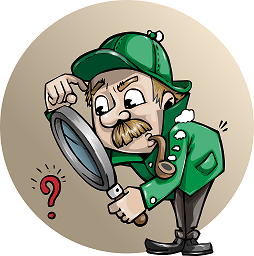
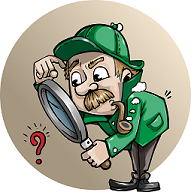
Ajuste de los elementos a una pantalla 940px, bajada de la resolución a las imágenes, ajuste para facilidad de responsividad

diff --git a/style.css b/style.css
@@ -7,19 +7,21 @@ body{
 }
 
 .caja{
-    display: block;
-    width: 50%; /* Para ocupar todo el ancho del encabezado */
+    display: inline-block;
+    width: 100%; /* Para ocupar todo el ancho del encabezado */
 }
 
 .container {
+    width: 940px;
+    margin: 0 auto;
     display: flex;
-    justify-content: space-between;
-    align-items: center;
 }
   
 .left {
-    width: 700px;
+    width: 620px;
+    text-align: center;
     padding: 20px;
+    margin: 0 10px;
 }
   
 textarea {
@@ -50,7 +52,6 @@ button {
     padding: 15px 0;
     font-size: 18px;
     font-weight: bold;
-    color: black;
     border-radius: 15px;
     transition: 0.7s all;
     cursor: pointer;
@@ -58,6 +59,7 @@ button {
   
 #Boton-Encriptar{
     border-color: blue;
+    color: blue;
 }
 
 #Boton-Encriptar:hover{
@@ -68,6 +70,7 @@ button {
 
 #Boton-Desencriptar{
     border-color: green;
+    color: green;
 }
 
 #Boton-Desencriptar:hover{
@@ -76,17 +79,23 @@ button {
     transform: scale(1.2);
 }
 
-.right {
-    flex: 1;
+
+
+.rightsinmensaje {
+    width: 220px;
     text-align: center;
     padding: 20px;
+    margin: 0 auto;
 }
   
 .sinmensaje {
-    max-width: 200px;
     margin: 0 auto;
-    padding: 50px;
+    padding: 20px;
     margin-bottom: 10px;
+}
+
+.sinmensaje img{
+    margin: 0 auto;
 }
   
 h1{
@@ -95,7 +104,14 @@ h1{
     text-align: center;
 }
 
-h2{
-    font-size: 12;
-    text-align: center;
+#Boton-Copiar{
+    border-color: gray;
+    color: gray;
+    visibility: hidden;
+}
+
+#Boton-Copiar:hover{
+    background-color: gray;
+    color: white;
+    transform: scale(1.2);
 }

diff --git a/Challenge-ONE-Encriptador.html b/Challenge-ONE-Encriptador.html
@@ -30,12 +30,12 @@
                 </div>
                 
               </div>
-              <div class="right">
+              <div class="rightsinmensaje">
                 <div class = "sinmensaje">
                     <img id="image" src="SinMensaje.png" alt="Sin mensaje">
                     <h1 id="messageText">No se ha encontrado ningún mensaje</h1>
-                    <h2>Ingrese algún mensaje para encriptar o desencriptar</h2>
                 </div>
+                <button id="Boton-Copiar">Copiar</button>
               </div>
             </div>
           
